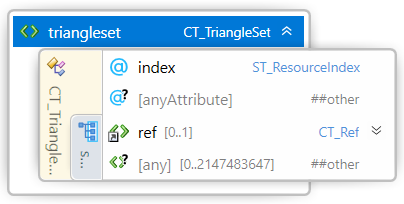
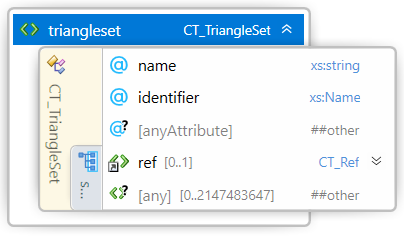
Corrected triangleset schema

diff --git a/3MF Core Specification.md b/3MF Core Specification.md
@@ -629,7 +629,7 @@ Element **\<t:trianglesets>**
 A _mesh node_ MAY contain a _trianglesets node_ that contains information how triangles are grouped and organized. Trianglesets and their child nodes MUST live under the core extension namespace for Triangle Sets (*http://schemas.microsoft.com/3dmanufacturing/trianglesets/2021/07*)
 
 
-A \<t:trianglesets> element acts as a container for triangleset nodes. The order of these elements forms an implicit 0-based index that MAY be referenced externally by their identifier.
+A \<t:trianglesets> element acts as a container for <t:\triangleset> nodes. The order of these elements forms an implicit 0-based index that MAY be referenced externally by their identifier.
 
 ### 4.1.5.1 Triangle Set-Elements
 
@@ -640,7 +640,7 @@ Element **\<t:triangleset>**
 | Name   | Type   | Use   | Default   | Annotation |
 | --- | --- | --- | --- | --- |
 | name   | **xs:string**   |  | required | Human-readable name of the triangle collection. MUST not be empty. |
-| identifier | **xs:token** |  | required | Might be used for external identification of the triangle collection data. The identifier attribute MUST be unique within the mesh and MUST not be empty. |
+| identifier | **xs:Name** |  | required | Might be used for external identification of the triangle collection data. The identifier attribute MUST be unique within the mesh and MUST not be empty. |
 
 A _triangle set_ contains a reference list to a subset of triangles to apply grouping operations and assign properties to a list of triangles. Editing applications might use this information for internal purposes, for example color display and selection workflows.
 
@@ -1207,8 +1207,6 @@ A consumer that is authorized to un-protect content by reversing the above steps
     <xs:sequence>
       <xs:element ref="triangleset" minOccurs="0" maxOccurs="1"/>
     </xs:sequence>
-    <xs:attribute name="name" type="xs:string" default="none"/>
-    <xs:attribute name="identifier" type="xs:token"/>
     <xs:anyAttribute namespace="##other" processContents="lax"/>
   </xs:complexType>
   <xs:complexType name="CT_TriangleSet">
@@ -1216,7 +1214,8 @@ A consumer that is authorized to un-protect content by reversing the above steps
       <xs:element ref="ref" minOccurs="0" maxOccurs="1"/>
       <xs:any namespace="##other" processContents="lax" minOccurs="0" maxOccurs="2147483647"/>
     </xs:sequence>
-    <xs:attribute name="index" type="ST_ResourceIndex" use="required" />
+    <xs:attribute name="name" type="xs:string" default="none"/>
+    <xs:attribute name="identifier" type="xs:Name"/>
     <xs:anyAttribute namespace="##other" processContents="lax"/>
   </xs:complexType>
   <xs:complexType name="CT_Ref">
